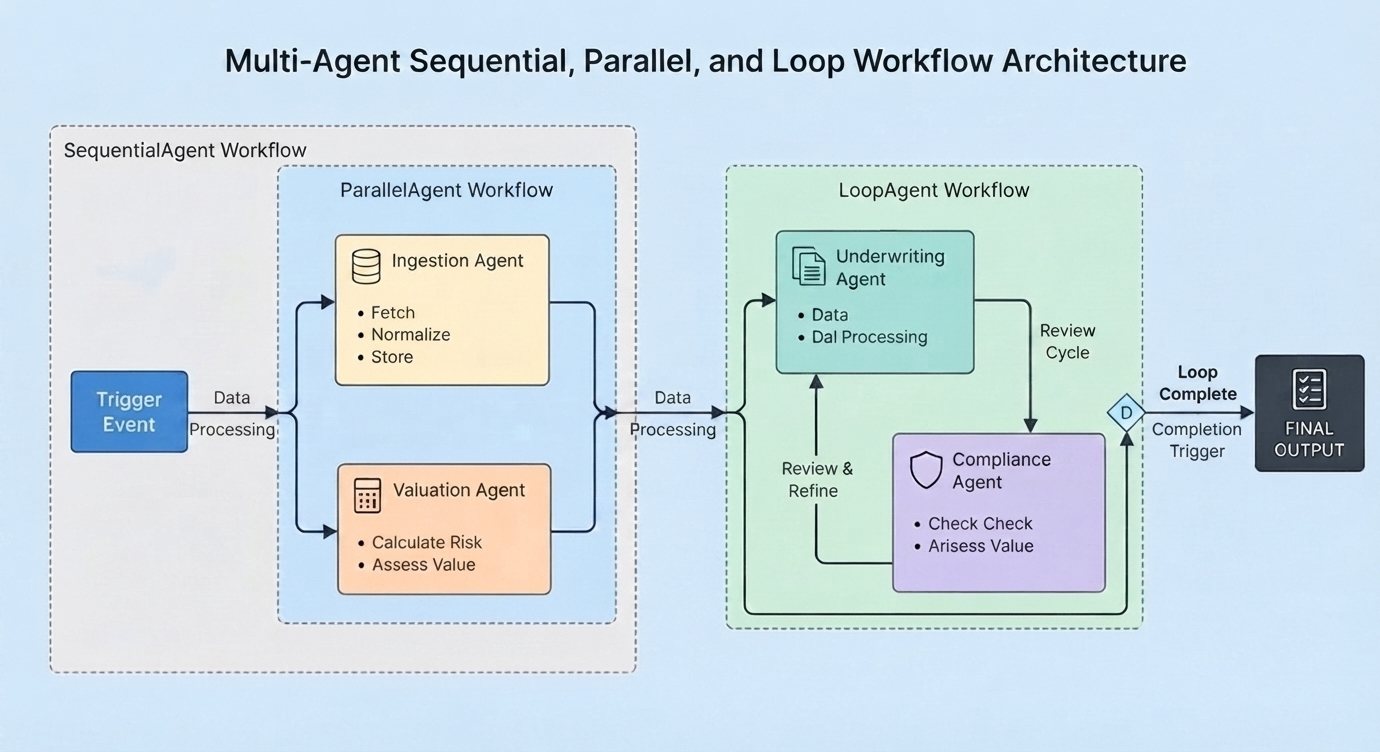
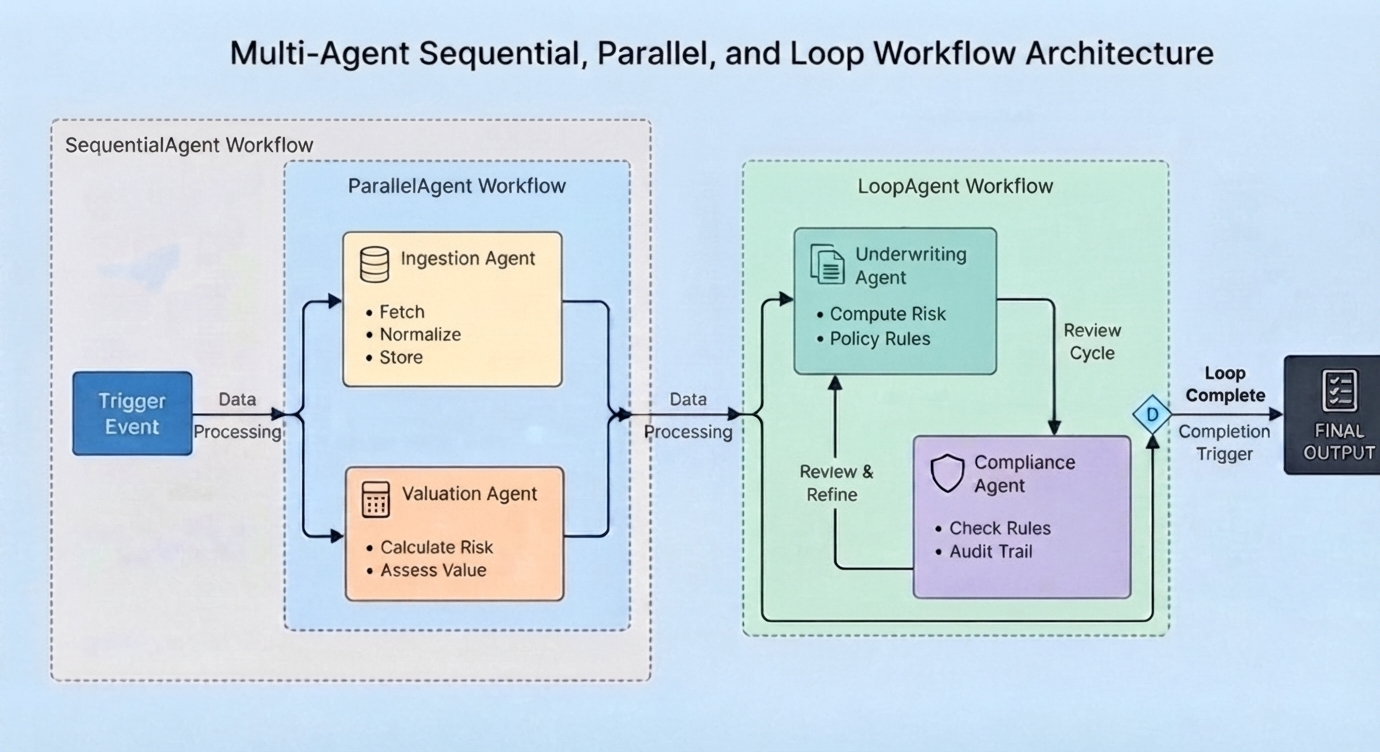
docs: update readme and add multi-agent workflow & enterprise architecture diagrams

Changed region(s): [[0.0312, 0.1529, 1.0, 0.8564], [0.1558, 0.0612, 0.9036, 0.1223], [0.0312, 0.887, 0.4674, 0.9176]]

diff --git a/README.md b/README.md
@@ -2,7 +2,25 @@
 
 An enterprise multi-agent credit scoring, financial valuation, and risk underwriting platform built with Google's Agent Development Kit (ADK) and Agent-to-Agent (A2A) protocol. It features a team of specialized microservice agents that ingest loan applications, evaluate borrower solvency, enforce compliance guardrails and score financial risks, orchestrated to deliver robust automated lending packages for financial service providers.
 
-## Architecture
+---
+
+## 🏗 Multi-Agent Workflow Architecture
+
+The orchestration logic is structured around sequential, parallel, and loop primitives using ADK. The **Dispatcher** coordinates document ingestion and valuation concurrently, followed by an iterative underwriting and compliance review loop:
+
+![CrediSync Multi-Agent Workflow](docs/assets/workflow-architecture.jpg)
+
+---
+
+## ☁ Enterprise Cloud Infrastructure
+
+The high-level cloud deployment topology outlines the integration across Google Cloud Run, Cloud Functions, external APIs, and secure A2A communication channels:
+
+![Enterprise Multi-Agent Architecture](docs/assets/enterprise-architecture.jpg)
+
+---
+
+## Micro Services Architecture
 This project uses a distributed microservices architecture where each agent runs in its own container and communicates securely via the Agent-2-Agent (A2A) protocol over HTTP:
 
 - **Dispatcher Service (`dispatcher`)**: Summarizes the lending package, manages workflow coordination using `LoopAgent`, `SequentialAgent`, and `RemoteA2aAgent` and writes the final output to a shared cloud workspace.
